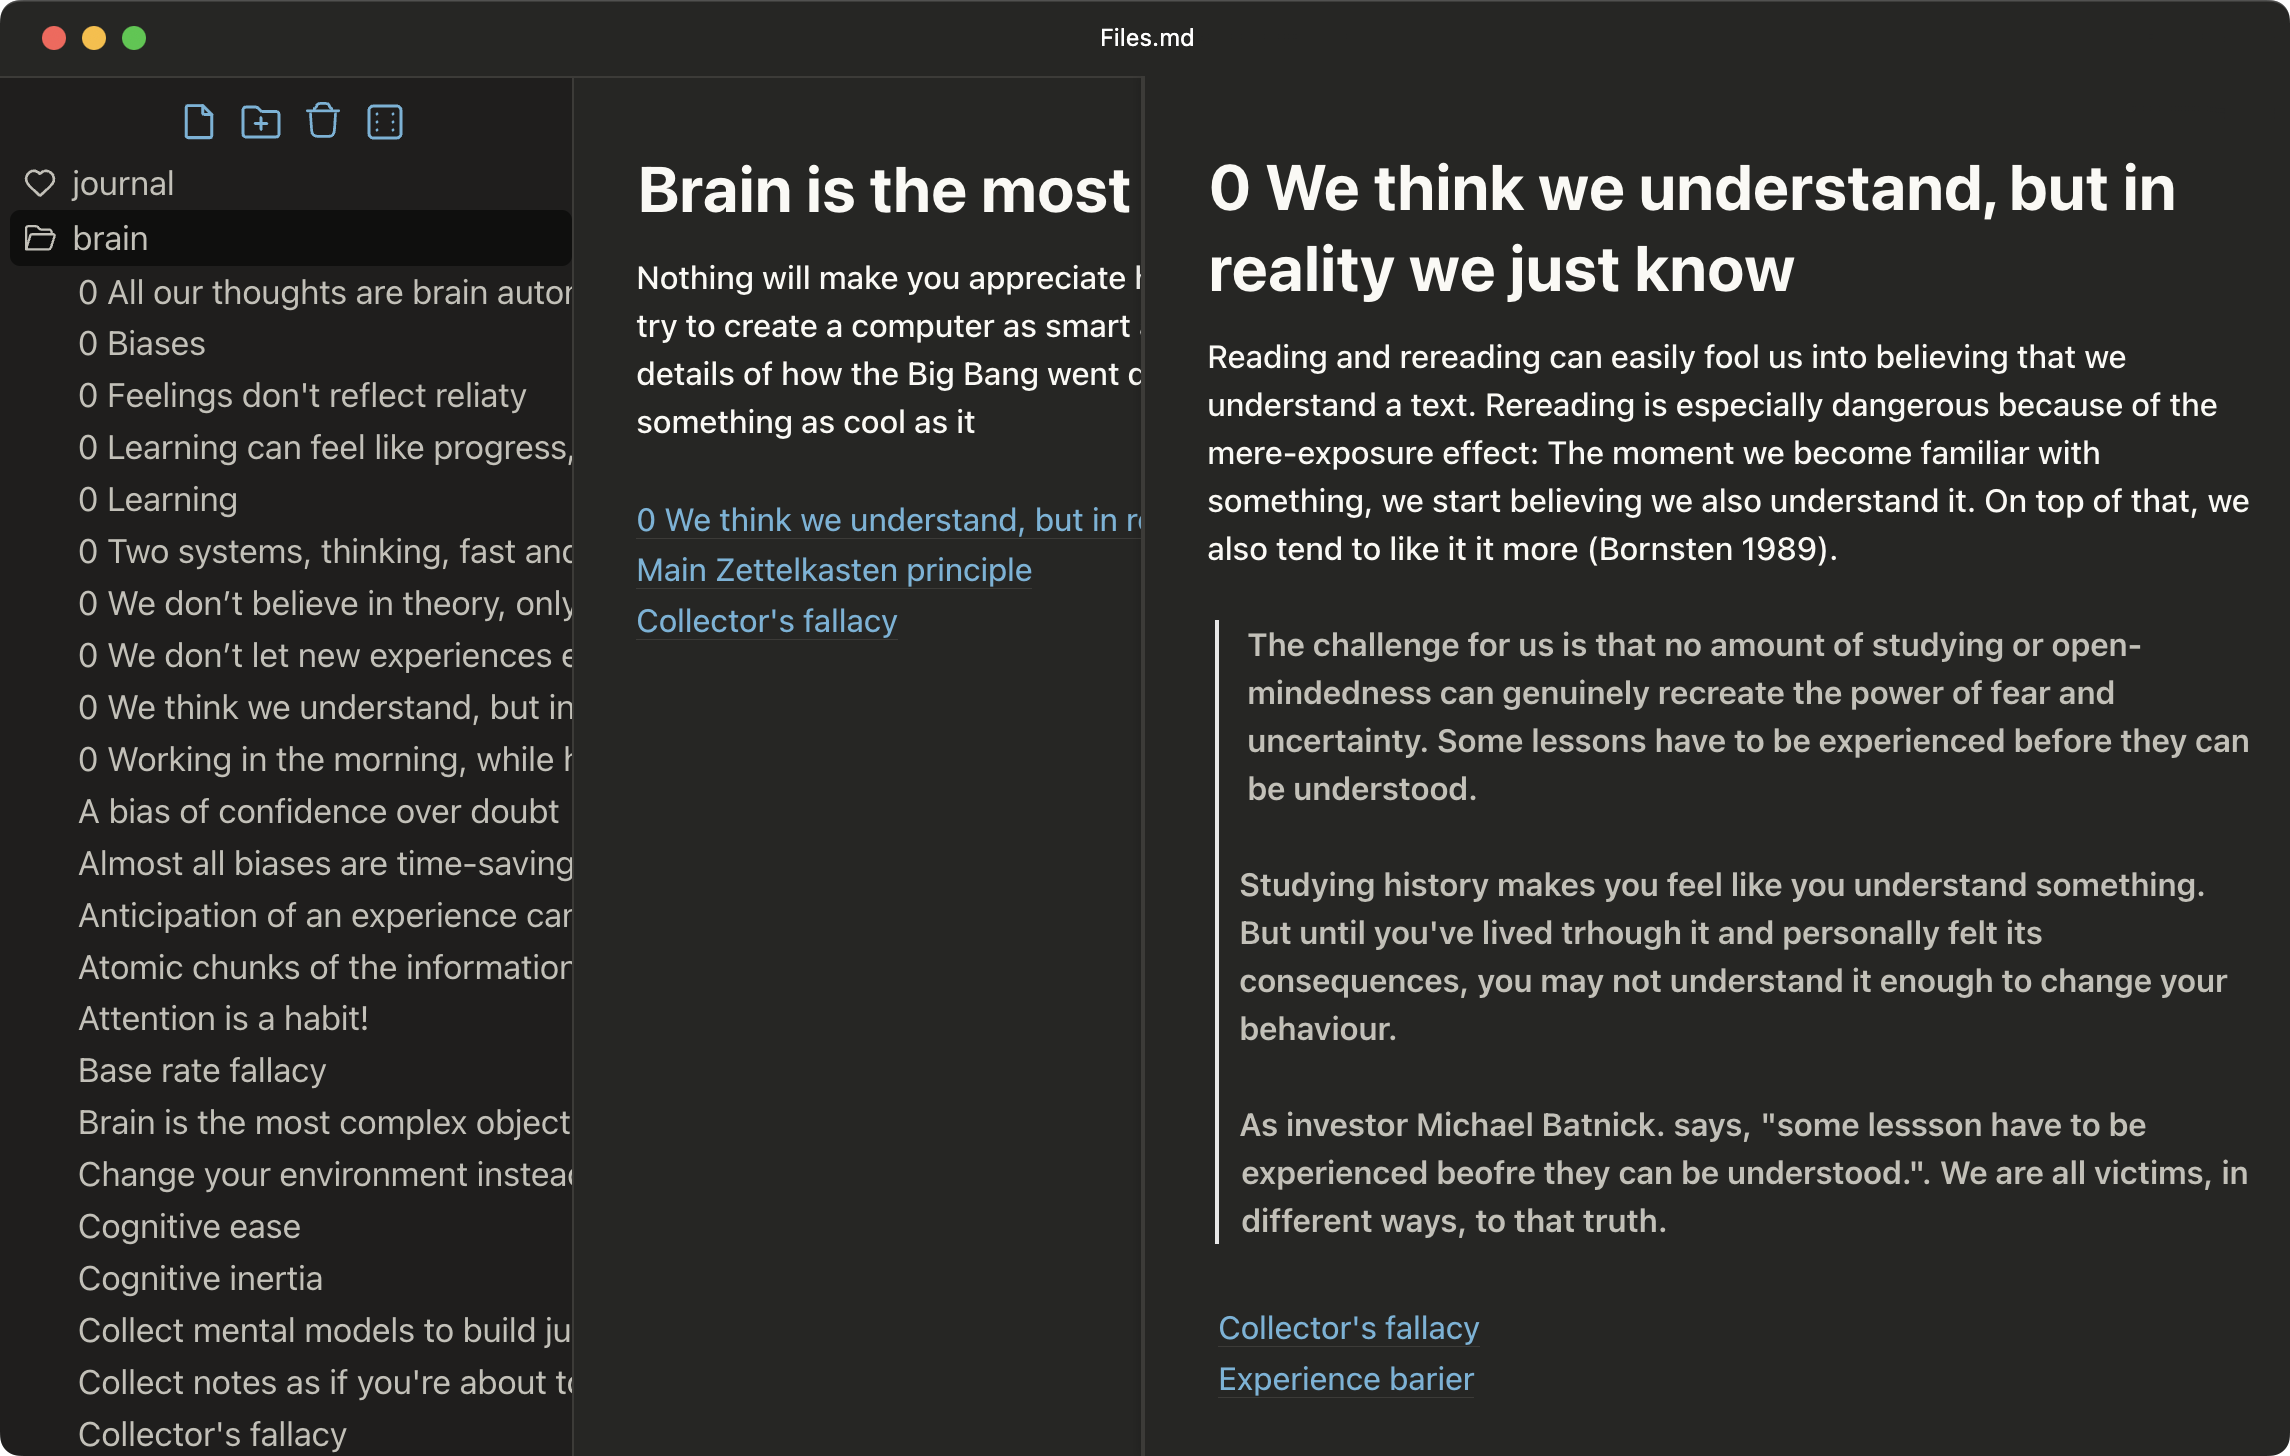
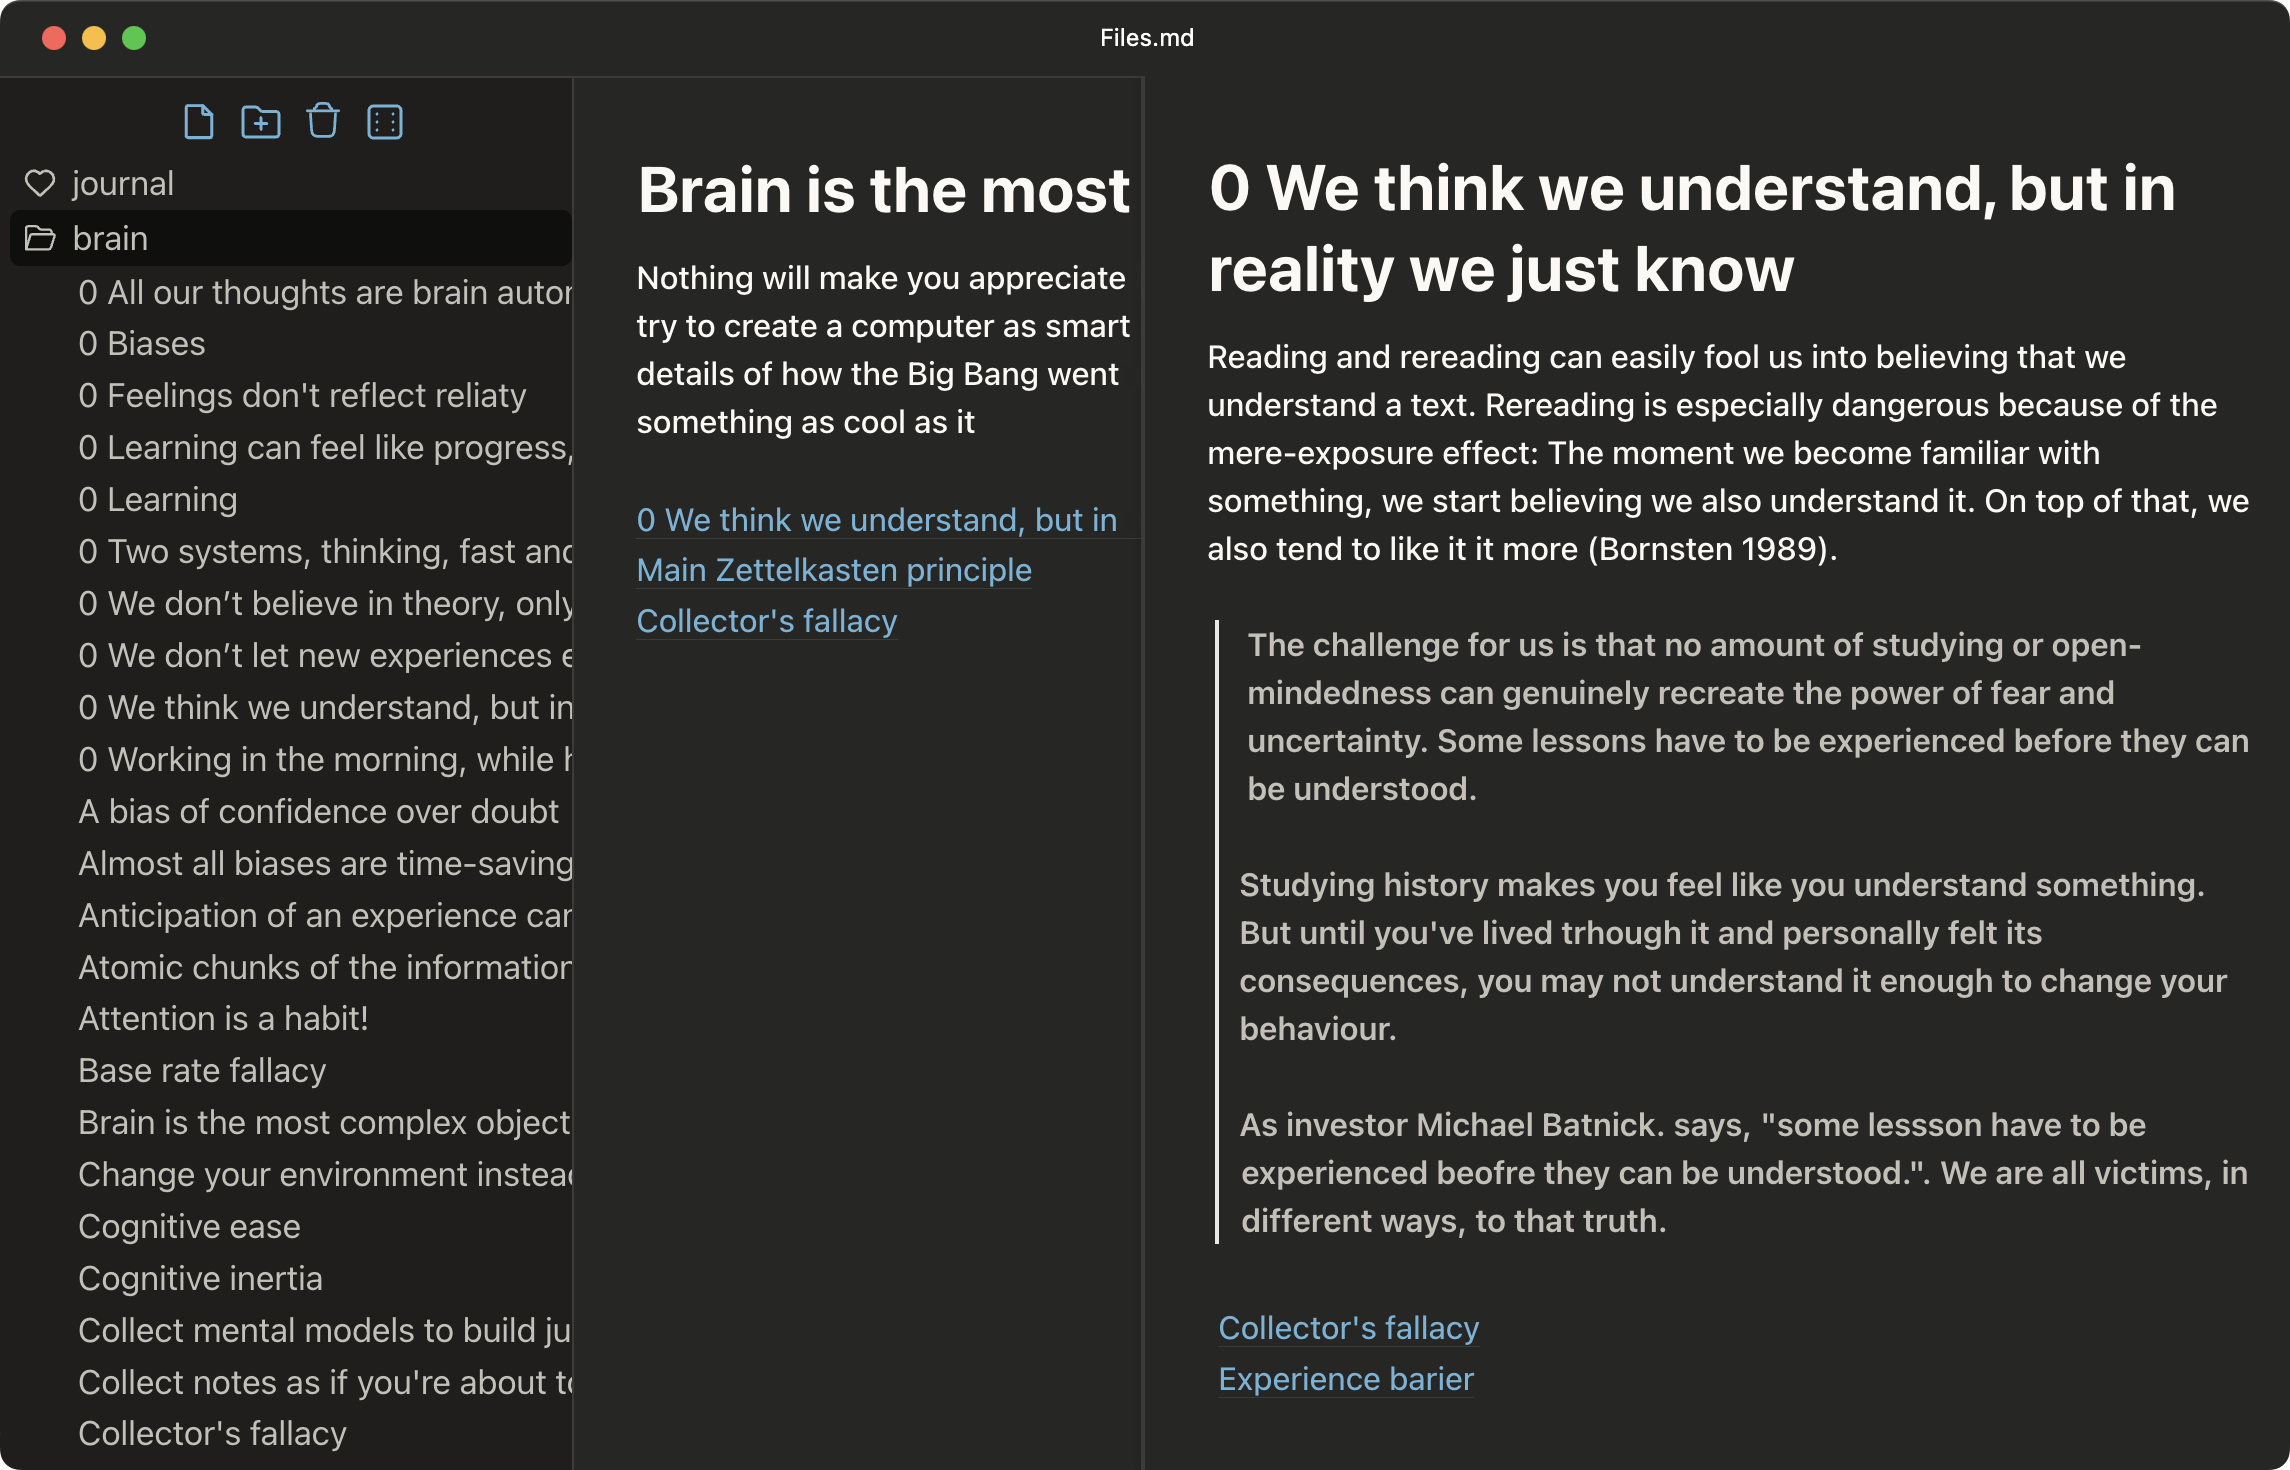
fix brought important screen up

diff --git a/README.md b/README.md
@@ -15,8 +15,16 @@ All in plain `.md` files, local-first. LLM-friendly.
 
 Try it out: [app.files.md](https://app.files.md)  
 
-## Another note-taking app?
-Maybe. But this time: 
+## Grow your knowledge base 🌱
+
+<div align="center">
+    <br/>
+    <img src="https://github.com/zakirullin/files.md/raw/main/web/img/base.png"/>
+    <br/><br/>
+</div>
+
+Connect ideas. Let them compound. Think through.
+
 - Only necessary features, **restrictions foster creativity**
 - No need to install anything, all you need is a browser
 - Works offline
@@ -53,15 +61,7 @@ Select where to save:
 
 You can save notes, journal and checklists.
 
-## Grow your knowledge base 🌱
-Connect ideas. Let them compound. Think through.  
-
-<div align="center">
-    <br/>
-    <img src="https://github.com/zakirullin/files.md/raw/main/web/img/base.png"/>
-    <br/><br/>
-</div>
-
+## How to grow your knowledge base 
 1) I used [app.files.md](https://app.files.md) to grow my knowledge about brain and software development
 2) I added new notes to either `brain` or `dev` folders. One idea per note
 3) I made connections between the relevant notes in the web app (typed `[` and selected a relevant note)